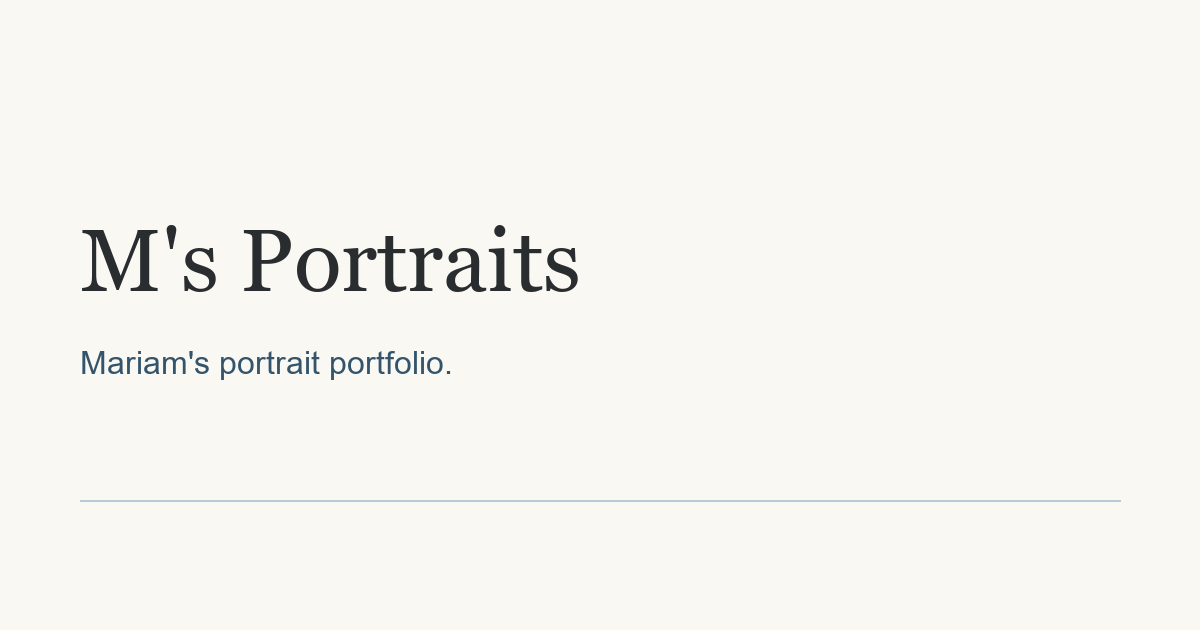
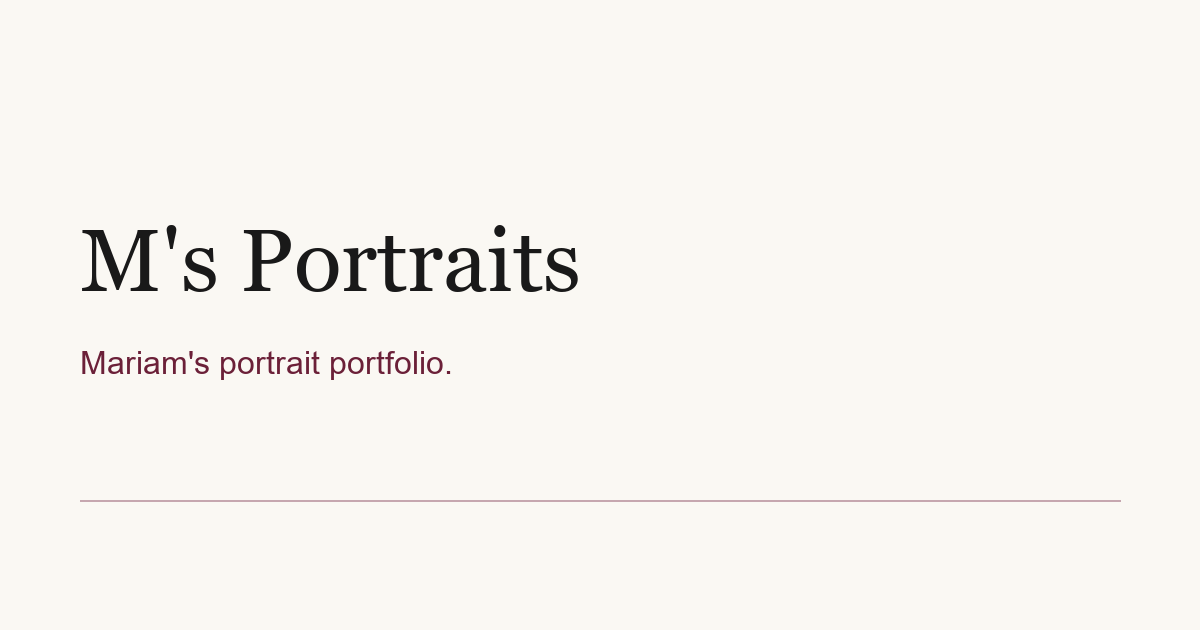
Add burgundy palette and paper texture

Changed region(s): [[0.0925, 0.7841, 0.925, 0.8143], [0.0617, 0.5429, 0.37, 0.6032]]

diff --git a/styles.css b/styles.css
@@ -1,19 +1,19 @@
 *{box-sizing:border-box}
 [hidden]{display:none!important}
-html{background:#FAF8F3;color:#292D30}
+html{background:#FAF8F3;color:#191919}
 body{margin:0;font:18px/1.6 Georgia,serif}
-a{color:#34546B;text-underline-offset:6px}
+a{color:#6B2038;text-underline-offset:6px}
 button,input{font:16px/1.5 system-ui,sans-serif}
 a,button{min-height:44px}
-a:focus-visible,button:focus-visible,input:focus-visible{outline:3px solid #34546B;outline-offset:5px}
+a:focus-visible,button:focus-visible,input:focus-visible{outline:3px solid #6B2038;outline-offset:5px}
 header,main,footer{max-width:1120px;margin:auto}
 header{padding:32px 48px;display:flex;flex-direction:column;align-items:center;gap:16px}
-.brand{font:24px/1.4 Georgia,serif;text-decoration:none;color:#292D30;display:flex;align-items:center}
+.brand{font:24px/1.4 Georgia,serif;text-decoration:none;color:#191919;display:flex;align-items:center}
 nav{display:flex;justify-content:center;gap:24px;flex-wrap:wrap;font:16px/1.5 system-ui,sans-serif}
 nav a,nav button{display:inline-flex;align-items:center;padding:10px 0}
 nav a{text-decoration:none}
 nav a[aria-current],nav a:hover{text-decoration:underline}
-nav button{border:0;background:none;color:#34546B;cursor:pointer;text-decoration:underline;text-underline-offset:6px}
+nav button{border:0;background:none;color:#6B2038;cursor:pointer;text-decoration:underline;text-underline-offset:6px}
 main{padding:32px 48px 64px;text-align:center}
 h1{font:italic 400 40px/1.2 Georgia,serif;margin:16px 0 24px}
 h2{font:400 28px/1.3 Georgia,serif}
@@ -21,29 +21,29 @@ p{max-width:60ch;margin:0 auto 24px}
 figure{margin:0}
 .featured{max-width:360px;margin:48px auto 32px}
 figure h2{font:400 20px/1.4 Georgia,serif;margin:0 0 16px}
-.portrait{background:#DEDEDE;aspect-ratio:4/5;display:grid;place-items:center;text-align:center;padding:24px;color:#292D30;width:100%;overflow-wrap:anywhere}
+.portrait{background:#DEDEDE;aspect-ratio:4/5;display:grid;place-items:center;text-align:center;padding:24px;color:#191919;width:100%;overflow-wrap:anywhere}
 .artwork{display:block;width:100%;height:auto;object-fit:contain;filter:grayscale(1)}
 figcaption{font:16px/1.5 system-ui,sans-serif;padding-top:16px}
 .cta{display:inline-flex;align-items:center;padding:12px 0;text-decoration:underline}
-footer{padding:32px 48px;border-top:1px solid #B7CAD9;text-align:center;font:16px/1.5 system-ui,sans-serif}
+footer{padding:32px 48px;border-top:1px solid #C6A7AF;text-align:center;font:16px/1.5 system-ui,sans-serif}
 footer p{margin:0 auto}
 .skip{position:absolute;left:20px;top:-100px;background:#FAF8F3;padding:12px;z-index:3}
 .skip:focus{top:10px}
 .grid{display:grid;grid-template-columns:repeat(3,minmax(0,1fr));gap:48px 32px;margin-top:48px}
 .about-copy{max-width:60ch;margin:48px auto}
-.status{font:16px/1.5 system-ui,sans-serif;color:#34546B;max-width:60ch;margin:16px auto}
+.status{font:16px/1.5 system-ui,sans-serif;color:#6B2038;max-width:60ch;margin:16px auto}
 .login-page{min-height:100vh;position:relative;isolation:isolate}
-.pattern{position:absolute;inset:0;z-index:-1;pointer-events:none;background:radial-gradient(circle,#B7CAD9 1.5px,transparent 2px) 16px 16px/32px 48px;mask-image:linear-gradient(to right,#000,transparent 12%,transparent 88%,#000)}
+.pattern{position:absolute;inset:0;z-index:-1;pointer-events:none;background:radial-gradient(circle,#C6A7AF 1.5px,transparent 2px) 16px 16px/32px 48px;mask-image:linear-gradient(to right,#000,transparent 12%,transparent 88%,#000)}
 .login-main{max-width:516px;padding-top:48px}
 .login-main h1{font:24px/1.4 Georgia,serif}
 .login-panel{text-align:left;margin-top:32px}
-.modes{display:flex;gap:24px;border-bottom:1px solid #B7CAD9;margin-bottom:24px}
-.modes button{padding:12px 0;border:0;background:none;color:#34546B;cursor:pointer}
+.modes{display:flex;gap:24px;border-bottom:1px solid #C6A7AF;margin-bottom:24px}
+.modes button{padding:12px 0;border:0;background:none;color:#6B2038;cursor:pointer}
 .modes button[aria-pressed=true]{text-decoration:underline;text-underline-offset:6px}
 label{display:block;font:16px/1.5 system-ui,sans-serif;margin:16px 0 8px}
-input{width:100%;min-height:48px;border:1px solid #34546B;background:#FAF8F3;color:#292D30;border-radius:4px;padding:10px 12px}
-.primary{border:0;border-radius:4px;background:#34546B;color:#FAF8F3;padding:12px 24px;cursor:pointer;margin-top:24px}
-.primary:hover{background:#292D30}
+input{width:100%;min-height:48px;border:1px solid #6B2038;background:#FAF8F3;color:#191919;border-radius:4px;padding:10px 12px}
+.primary{border:0;border-radius:4px;background:#6B2038;color:#FAF8F3;padding:12px 24px;cursor:pointer;margin-top:24px}
+.primary:hover{background:#4B1627}
 button:disabled{cursor:wait}
 .login-panel .primary{width:100%}
 .login-panel .status{margin-top:24px}
@@ -52,3 +52,16 @@ button:disabled{cursor:wait}
 @media(max-width:960px){.grid{grid-template-columns:repeat(2,minmax(0,1fr))}}
 @media(max-width:600px){header{padding:24px 20px}nav{gap:20px}main{padding:32px 20px 48px}h1{font-size:30px}h2{font-size:24px}footer{padding:24px 20px}.grid{grid-template-columns:1fr}.login-main{padding-top:24px}.pattern{mask-image:linear-gradient(to right,#000,transparent 5%,transparent 95%,#000)}}
 @media(prefers-reduced-motion:reduce){*{animation:none!important;transition:none!important}}
+/* Grain lives in whitespace; text and artwork use solid paper surfaces. */
+body{
+  background-color:#FAF8F3;
+  background-image:
+    radial-gradient(ellipse at 20% 30%,rgba(25,25,25,.035) .55px,transparent .9px),
+    radial-gradient(ellipse at 70% 65%,rgba(107,32,56,.025) .5px,transparent .85px),
+    repeating-linear-gradient(93deg,transparent 0 5px,rgba(25,25,25,.009) 5px 6px,transparent 6px 11px);
+  background-size:7px 11px,13px 17px,auto;
+}
+h1,h2,p,nav,.brand,figcaption,label,.modes,.login-panel,.session-actions,.artwork{background-color:#FAF8F3}
+.artwork:hover,.artwork:focus{filter:grayscale(1)}
+.primary{background-color:#6B2038}
+.primary:hover{background-color:#4B1627}

diff --git a/login.html b/login.html
@@ -3,7 +3,7 @@
 <meta charset="utf-8"><meta name="viewport" content="width=device-width,initial-scale=1">
 <title>Log in — M's Portraits</title><meta name="description" content="Step inside, pause, and meet the portraits. Log in or create an account.">
 <meta property="og:title" content="M's Portraits"><meta property="og:description" content="Step inside, pause, and meet the portraits."><meta property="og:type" content="website"><meta property="og:image" content="share.png"><meta property="og:image:alt" content="M's Portraits — Mariam's portrait portfolio."><meta name="twitter:card" content="summary_large_image"><meta name="twitter:image" content="share.png">
-<link rel="stylesheet" href="styles.css"><script defer src="https://cdn.jsdelivr.net/npm/@supabase/supabase-js@2"></script><script defer src="config.js"></script><script defer src="auth.js"></script>
+<link rel="stylesheet" href="styles.css?v=burgundy-paper"><script defer src="https://cdn.jsdelivr.net/npm/@supabase/supabase-js@2"></script><script defer src="config.js"></script><script defer src="auth.js"></script>
 </head><body class="login-page">
 <div class="pattern" aria-hidden="true"></div>
 <main class="login-main" id="main">

diff --git a/index.html b/index.html
@@ -7,7 +7,7 @@
 <meta property="og:description" content="Mariam's portrait portfolio.">
 <meta property="og:type" content="website"><meta property="og:image" content="share.png"><meta property="og:image:alt" content="M's Portraits — Mariam's portrait portfolio.">
 <meta name="twitter:card" content="summary_large_image"><meta name="twitter:image" content="share.png">
-<link rel="stylesheet" href="styles.css">
+<link rel="stylesheet" href="styles.css?v=burgundy-paper">
 <script defer src="https://cdn.jsdelivr.net/npm/@supabase/supabase-js@2"></script>
 <script defer src="config.js"></script><script defer src="auth.js"></script>
 </head><body data-protected>

diff --git a/about.html b/about.html
@@ -7,7 +7,7 @@
 <meta property="og:description" content="Speaking through art">
 <meta property="og:type" content="website"><meta property="og:image" content="share.png"><meta property="og:image:alt" content="M's Portraits — Mariam's portrait portfolio.">
 <meta name="twitter:card" content="summary_large_image"><meta name="twitter:image" content="share.png">
-<link rel="stylesheet" href="styles.css">
+<link rel="stylesheet" href="styles.css?v=burgundy-paper">
 <script defer src="https://cdn.jsdelivr.net/npm/@supabase/supabase-js@2"></script>
 <script defer src="config.js"></script><script defer src="auth.js"></script>
 </head><body data-protected>

diff --git a/gallery.html b/gallery.html
@@ -7,7 +7,7 @@
 <meta property="og:description" content="My work">
 <meta property="og:type" content="website"><meta property="og:image" content="share.png"><meta property="og:image:alt" content="M's Portraits — Mariam's portrait portfolio.">
 <meta name="twitter:card" content="summary_large_image"><meta name="twitter:image" content="share.png">
-<link rel="stylesheet" href="styles.css">
+<link rel="stylesheet" href="styles.css?v=burgundy-paper">
 <script defer src="https://cdn.jsdelivr.net/npm/@supabase/supabase-js@2"></script>
 <script defer src="config.js"></script><script defer src="auth.js"></script>
 </head><body data-protected>

diff --git a/DESIGN.md b/DESIGN.md
@@ -1,28 +1,32 @@
 # M's Portraits — Design
 
 ## Concept
-M's Portraits is a calm, welcoming space for Mariam's portraits, inviting other artists and art lovers to pause and reflect. Black-and-white artwork, soft blue details, and an orderly layout create an introspective experience that feels calm, pretty, and organized.
+M's Portraits is a calm, welcoming space for Mariam's portraits, inviting other artists and art lovers to pause and reflect. Black-and-white artwork, deep burgundy details, and an orderly layout create an introspective experience that feels calm, pretty, and organized.
 
 ## Reference
 Reference: maman café branding.
 Source: https://mamannyc.com/journal/blue-and-white-pattern-design
 
-Borrow the system: a restrained blue-and-white palette, delicate decorative rhythm, and a comforting sense of welcome.
+Borrow the system: a restrained black, warm-white and burgundy palette, delicate decorative rhythm, and a comforting sense of welcome.
 Create an original, sparse pattern using simple lines and dots; keep it around the edges of the log-in page.
 Do not reproduce maman's recognizable patterns or identity.
 No reference names, logos, text, images, or fonts are copied into the site.
 
 ## Colour and material
-- Warm white #FAF8F3: page backgrounds and form surfaces; evokes paper.
-- Pale blue #E7EEF3: quiet decorative areas and button hover backgrounds.
-- Muted blue #B7CAD9: original patterns and decorative rules; never body text.
-- Deep blue #34546B: links, primary buttons, and keyboard focus indicators.
-- Charcoal #292D30: headings, body text, and artwork notes.
-- Plain grey #DEDEDE: missing-image placeholders, with charcoal labels.
+- Warm white #FAF8F3: page backgrounds and quiet, solid text and form surfaces.
+- Black #191919: headings, body text, site name and artwork notes.
+- Deep burgundy #6B2038: links, primary buttons and keyboard focus indicators.
+- Dark burgundy #4B1627: button hover backgrounds.
+- Muted burgundy #C6A7AF: decorative rules and the original login edge pattern; never body text.
+- Plain grey #DEDEDE: missing-image placeholders, with black labels.
 
-The material feeling is warm paper and delicate blue ink.
-Keep textures subtle and away from artwork and text.
-Use charcoal or deep blue text on light backgrounds and warm white text on deep blue buttons.
+Use a delicate CSS paper texture: faint, irregularly spaced ink-like flecks
+and fine grain on warm white. It sits in the surrounding whitespace, behind
+solid warm-white text surfaces; never overlay it on artwork, captions, forms
+or text. No external texture images are needed.
+Keep the material feeling quiet, like warm paper and burgundy ink.
+Use black or deep burgundy text on warm white, and warm white on burgundy buttons.
+Keep scheme B's layout, type, spacing and monochrome image treatment unchanged.
 
 ## Typography
 Use Georgia for headings, body text and the site name, with a generic serif
@@ -70,22 +74,22 @@ No moving artwork, parallax, animated patterns, or elaborate page transitions.
 Respect reduced-motion preferences by removing fades and transitions.
 
 ## Log-in page
-Use a warm-white background with a sparse, original blue pattern around the outer edges.
+Use a warm-white background with a sparse, original burgundy pattern around the outer edges.
 Place a simple form in the centre, with a maximum width of 420px.
 Show the site name above this welcome line:
 "Step inside, pause, and meet the portraits."
 
 Provide clearly labelled Log in and Sign up modes.
 Both use visible Email and Password labels.
-Use a deep-blue primary button and plain inline feedback.
+Use a burgundy primary button and plain inline feedback.
 Keep the pattern clear of the form so the page feels welcoming and easy to read.
 
 ## Menu and buttons
 On protected pages, show the text site name, Home, Gallery, About, and Log out.
 Use a visible, compact menu that wraps neatly on phones.
 Indicate the current page with an underline and accessible current-page state.
-Use deep-blue buttons with warm-white text, modest rounded corners, and no heavy shadows.
-Secondary actions use deep-blue text with an underline or visible border.
+Use burgundy buttons with warm-white text, modest rounded corners, and no heavy shadows.
+Secondary actions use burgundy text with an underline or visible border.
 Interactive targets are at least 44px high, with clear keyboard focus.
 
 ## Tone of voice
@@ -109,7 +113,7 @@ Use a maximum portrait width of 360px on Home and abundant warm-white space.
 The atmosphere is formal, contemplative and gallery-like.
 Gallery retains a three/two/one-column grid; notes stay with their portraits.
 About uses a centered, narrow reading column. Login uses the same typography
-and a centered form, with the sparse original blue pattern at the outer edges.
+and a centered form, with the sparse original burgundy pattern at the outer edges.
 Home copy is “Mariam's portrait portfolio.” and
 “Step inside, pause, and meet the portraits.”
 The comparison previews and scheme folders are removed.

diff --git a/SPEC.md b/SPEC.md
@@ -18,7 +18,7 @@ Content:
 - Log in and Sign up modes.
 - Email and password fields with visible labels.
 - Submit button and inline feedback.
-- Warm-white background and a delicate original blue pattern.
+- Warm-white background and a delicate original burgundy pattern.
 
 This page is never gated.
 If a visitor is already signed in, provide a link to index.html and a Log out action.
